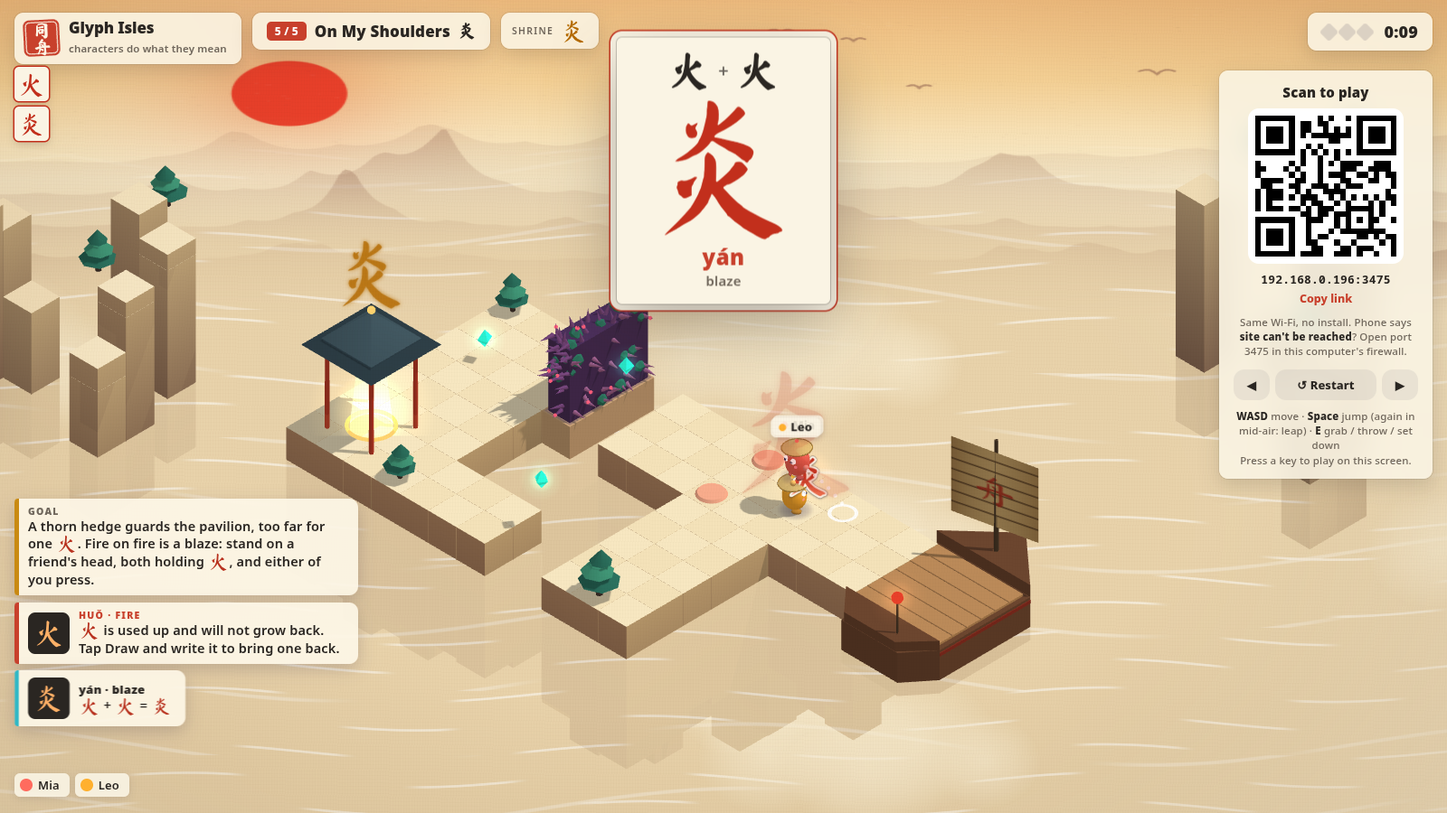
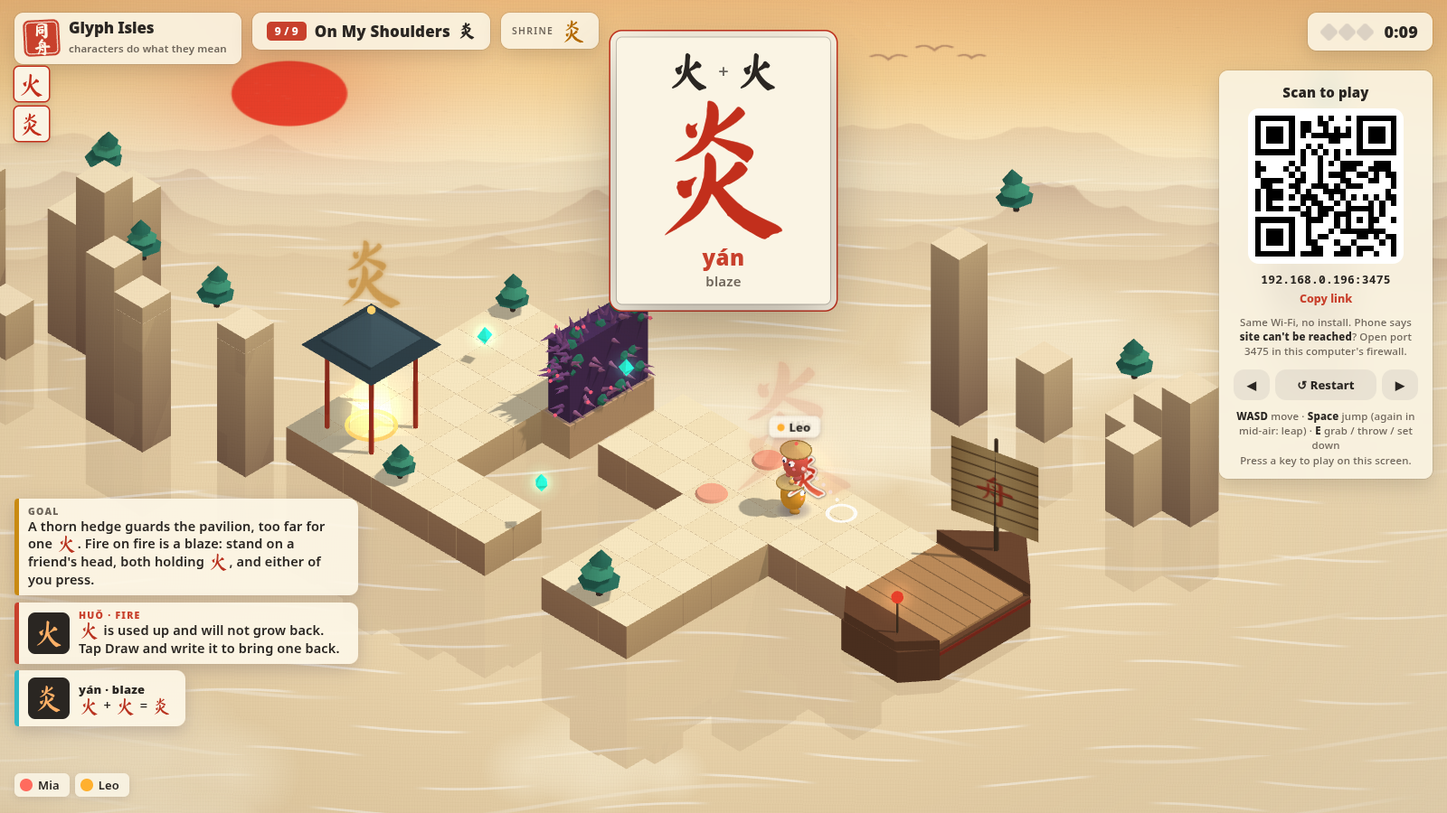
Forge: light dispels shade, earth fills gaps (LV.WALLS / LV.FILLS); stages old-leaf, early-light, fruit-field, red-earth; board checks t08/t09

diff --git a/games/tongzhou-forge/content.js b/games/tongzhou-forge/content.js
@@ -1,6 +1,6 @@
 // GENERATED by tools/pack.mjs from content/*.json. Do not edit by hand.
 (function (root) {
-  const data = {"glyphs":{"木":{"py":"mù","en":"tree","el":"wood","span":3},"林":{"py":"lín","en":"grove","el":"wood","span":5},"森":{"py":"sēn","en":"forest","el":"wood","span":7},"火":{"py":"huǒ","en":"fire","el":"fire","reach":1.3},"炎":{"py":"yán","en":"blaze","el":"fire","reach":2.6},"焚":{"py":"fén","en":"burn","el":"fire","reach":2.6},"水":{"py":"shuǐ","en":"water","el":"water","reach":1.3},"沐":{"py":"mù","en":"bathe","el":"water","reach":1.3},"淋":{"py":"lín","en":"drench","el":"water","reach":2.6},"日":{"py":"rì","en":"sun","el":"light"},"月":{"py":"yuè","en":"moon","el":"light"},"明":{"py":"míng","en":"bright","el":"light"},"昌":{"py":"chāng","en":"flourishing","el":"light"},"朋":{"py":"péng","en":"friend","el":"light"},"人":{"py":"rén","en":"person","el":"folk"},"从":{"py":"cóng","en":"follow","el":"folk"},"众":{"py":"zhòng","en":"crowd","el":"folk"},"休":{"py":"xiū","en":"rest","el":"folk"},"伙":{"py":"huǒ","en":"partner","el":"folk"},"女":{"py":"nǚ","en":"woman","el":"folk"},"子":{"py":"zǐ","en":"child","el":"folk"},"好":{"py":"hǎo","en":"good","el":"light"},"杲":{"py":"gǎo","en":"bright","el":"light"},"杳":{"py":"yǎo","en":"dim","el":"dusk"},"口":{"py":"kǒu","en":"mouth","el":"folk"},"十":{"py":"shí","en":"ten","el":"folk"},"田":{"py":"tián","en":"field","el":"folk"},"土":{"py":"tǔ","en":"earth","el":"folk"},"呆":{"py":"dāi","en":"dull","el":"folk"},"杏":{"py":"xìng","en":"apricot","el":"wood","span":3},"果":{"py":"guǒ","en":"fruit","el":"wood","span":3},"叶":{"py":"yè","en":"leaf","el":"wood","span":3},"古":{"py":"gǔ","en":"old","el":"folk"},"早":{"py":"zǎo","en":"early","el":"light"},"赤":{"py":"chì","en":"red","el":"fire","reach":1.3},"灶":{"py":"zào","en":"stove","el":"fire","reach":1.3}},"recipes":[["⿰","木","木","林"],["⿱","木","林","森"],["⿰","日","月","明"],["⿰","人","木","休"],["⿱","火","火","炎"],["⿱","林","火","焚"],["⿰","水","木","沐"],["⿰","水","林","淋"],["⿰","人","人","从"],["⿱","人","从","众"],["⿰","人","火","伙"],["⿱","日","日","昌"],["⿰","月","月","朋"],["⿰","女","子","好"],["⿱","日","木","杲"],["⿱","木","日","杳"],["⿱","口","木","呆"],["⿱","木","口","杏"],["⿱","田","木","果"],["⿰","口","十","叶"],["⿱","十","口","古"],["⿱","日","十","早"],["⿱","土","火","赤"],["⿰","火","土","灶"]],"forms":{"水":{"⿰1":"氵"},"心":{"⿰1":"忄"},"人":{"⿰1":"亻"}},"stages":[{"id":"two-trees","name":"Two Trees","cn":"双木成林","par":45,"pal":"dawn","want":"林","hint":"Mist has closed the river. Bring the pavilion its character. 木 thrown into the gap grows a bridge. Or find your own way: row the boat, boost a friend.","map":["22............","1111...1111111","1111...1111111","1111...1111111","...........11."],"spawn":[12.5,2.5],"beacon":[1.5,2.5],"boat":{"rect":[14,1,3,3],"from":[0,11],"to":[0,-15]},"stones":[["木",9.5,1.5],["木",9.5,3.5]],"gems":[[5.5,2.5,2.4],[12.5,4.5],[0.5,0.5]],"trees":[[1.5,0.5],[13.5,1.5]],"conjure":["木"]},{"id":"sun-and-moon","name":"Sun and Moon","cn":"日月同明","par":80,"pal":"night","want":"明","dawn":"citrus","hint":"It is dark. Find 日 and 月. Thorns fear 火, a gap wants 木. There is always more than one way.","map":["..............222","111...111.1111111","111...111.1111111","111...111.1111111","..............11."],"spawn":[15.5,2.5],"beacon":[1.5,2.5],"boat":{"rect":[17,1,3,3],"from":[0,11],"to":[0,-15]},"movers":[{"id":"hedge","kind":"thorn","rect":[9,1,1,3],"from":3.6,"to":1,"speed":2.4}],"stones":[["火",12.5,1.5],["木",12.5,3.5],["日",15.5,0.5],["月",6.5,1.5]],"gems":[[14.5,0.5],[4.5,2.5,2.4],[7.5,3.5]],"trees":[[0.5,1.5],[15.5,4.5]],"conjure":["火","木","日","月"]},{"id":"rest","name":"Lean on a Tree","cn":"人木为休","par":100,"pal":"mint","want":"休","hint":"Only 水 gets past the flames. 人 leaning on 木 makes 休. Carry it up the steps, or ride the lift while a friend holds the plate.","map":["4444444.......","4444444.......","4444..3.......","4444..2.......","..11111111.111","..11111111.111","..11111111.111"],"spawn":[8.5,6.5],"beacon":[1.5,2.5],"boat":{"rect":[6,7,4,2],"from":[11,0],"to":[-15,0]},"plates":[{"id":"L","at":[8,5],"c":2}],"movers":[{"id":"lift","rect":[4,2,2,2],"from":1,"to":4,"when":["L"],"c":2,"speed":1.6},{"id":"flames","kind":"flame","rect":[10,4,1,3],"from":3.6,"to":1,"speed":2.4}],"crates":[[6.5,5.5]],"stones":[["水",3.5,5.5],["木",3.5,6.5],["人",12.5,5.5]],"gems":[[6.5,2.5],[12.5,4.5],[5.5,0.5]],"trees":[[0.5,0.5],[2.5,0.5],[13.5,6.5]],"conjure":["木","人","水"]},{"id":"dawn","name":"Dawn","cn":"杲","par":60,"pal":"dusk","dawn":"dawn","want":"杲","hint":"Mist has closed the river. The pavilion waits for sunrise: the sun above the trees. Stand in front of a stone to set yours on top of it.","map":["22............","1111...1111111","1111...1111111","1111...1111111","...........11."],"spawn":[12.5,2.5],"beacon":[1.5,2.5],"boat":{"rect":[14,1,3,3],"from":[0,11],"to":[0,-15]},"stones":[["日",10.5,1.5],["木",9.5,3.5]],"gems":[[5.5,2.5,2.4],[12.5,4.5],[0.5,0.5]],"glow":[[8.5,1.5]],"trees":[[1.5,0.5],[13.5,1.5]],"regrow":true},{"id":"on-my-shoulders","name":"On My Shoulders","cn":"炎","par":70,"pal":"citrus","want":"炎","hint":"A thorn hedge guards the pavilion, too far for one 火. Fire on fire is a blaze: stand on a friend's head, both holding 火, and either of you press.","map":["...............","1111..111111111","1111..111111111","1111..111111111","1111.....111...","1111.....111...","1111.....111...","1111111..111...","1111111..111...","..............."],"spawn":[12.5,2.5],"beacon":[1.5,7.5],"boat":{"rect":[15,1,3,3],"from":[0,11],"to":[0,-15]},"movers":[{"id":"hedge","kind":"thorn","rect":[4,1,1,3],"from":3.6,"to":1,"speed":2.4}],"stones":[["火",9.5,1.5],["火",9.5,3.5]],"gems":[[5.5,2.5,2.4],[7.5,7.5,2.4],[1.5,3.5]],"trees":[[0.5,1.5],[10.5,8.5],[3.5,8.5]]}]};
+  const data = {"glyphs":{"木":{"py":"mù","en":"tree","el":"wood","span":3},"林":{"py":"lín","en":"grove","el":"wood","span":5},"森":{"py":"sēn","en":"forest","el":"wood","span":7},"火":{"py":"huǒ","en":"fire","el":"fire","reach":1.3},"炎":{"py":"yán","en":"blaze","el":"fire","reach":2.6},"焚":{"py":"fén","en":"burn","el":"fire","reach":2.6},"水":{"py":"shuǐ","en":"water","el":"water","reach":1.3},"沐":{"py":"mù","en":"bathe","el":"water","reach":1.3},"淋":{"py":"lín","en":"drench","el":"water","reach":2.6},"日":{"py":"rì","en":"sun","el":"light"},"月":{"py":"yuè","en":"moon","el":"light"},"明":{"py":"míng","en":"bright","el":"light","reach":2.6},"昌":{"py":"chāng","en":"flourishing","el":"light","reach":2.6},"朋":{"py":"péng","en":"friend","el":"light"},"人":{"py":"rén","en":"person","el":"folk"},"从":{"py":"cóng","en":"follow","el":"folk"},"众":{"py":"zhòng","en":"crowd","el":"folk"},"休":{"py":"xiū","en":"rest","el":"folk"},"伙":{"py":"huǒ","en":"partner","el":"folk"},"女":{"py":"nǚ","en":"woman","el":"folk"},"子":{"py":"zǐ","en":"child","el":"folk"},"好":{"py":"hǎo","en":"good","el":"light"},"杲":{"py":"gǎo","en":"bright","el":"light","reach":2.6},"杳":{"py":"yǎo","en":"dim","el":"dusk"},"口":{"py":"kǒu","en":"mouth","el":"folk"},"十":{"py":"shí","en":"ten","el":"folk"},"田":{"py":"tián","en":"field","el":"earth","span":3},"土":{"py":"tǔ","en":"earth","el":"earth","span":2},"呆":{"py":"dāi","en":"dull","el":"folk"},"杏":{"py":"xìng","en":"apricot","el":"wood","span":3},"果":{"py":"guǒ","en":"fruit","el":"wood","span":3},"叶":{"py":"yè","en":"leaf","el":"wood","span":3},"古":{"py":"gǔ","en":"old","el":"folk"},"早":{"py":"zǎo","en":"early","el":"light"},"赤":{"py":"chì","en":"red","el":"fire","reach":1.3},"灶":{"py":"zào","en":"stove","el":"fire","reach":1.3}},"recipes":[["⿰","木","木","林"],["⿱","木","林","森"],["⿰","日","月","明"],["⿰","人","木","休"],["⿱","火","火","炎"],["⿱","林","火","焚"],["⿰","水","木","沐"],["⿰","水","林","淋"],["⿰","人","人","从"],["⿱","人","从","众"],["⿰","人","火","伙"],["⿱","日","日","昌"],["⿰","月","月","朋"],["⿰","女","子","好"],["⿱","日","木","杲"],["⿱","木","日","杳"],["⿱","口","木","呆"],["⿱","木","口","杏"],["⿱","田","木","果"],["⿰","口","十","叶"],["⿱","十","口","古"],["⿱","日","十","早"],["⿱","土","火","赤"],["⿰","火","土","灶"]],"forms":{"水":{"⿰1":"氵"},"心":{"⿰1":"忄"},"人":{"⿰1":"亻"}},"stages":[{"id":"two-trees","name":"Two Trees","cn":"双木成林","par":45,"pal":"dawn","want":"林","hint":"Mist has closed the river. Bring the pavilion its character. 木 thrown into the gap grows a bridge. Or find your own way: row the boat, boost a friend.","map":["22............","1111...1111111","1111...1111111","1111...1111111","...........11."],"spawn":[12.5,2.5],"beacon":[1.5,2.5],"boat":{"rect":[14,1,3,3],"from":[0,11],"to":[0,-15]},"stones":[["木",9.5,1.5],["木",9.5,3.5]],"gems":[[5.5,2.5,2.4],[12.5,4.5],[0.5,0.5]],"trees":[[1.5,0.5],[13.5,1.5]],"conjure":["木"]},{"id":"sun-and-moon","name":"Sun and Moon","cn":"日月同明","par":80,"pal":"night","want":"明","dawn":"citrus","hint":"It is dark. Find 日 and 月. Thorns fear 火, a gap wants 木. There is always more than one way.","map":["..............222","111...111.1111111","111...111.1111111","111...111.1111111","..............11."],"spawn":[15.5,2.5],"beacon":[1.5,2.5],"boat":{"rect":[17,1,3,3],"from":[0,11],"to":[0,-15]},"movers":[{"id":"hedge","kind":"thorn","rect":[9,1,1,3],"from":3.6,"to":1,"speed":2.4}],"stones":[["火",12.5,1.5],["木",12.5,3.5],["日",15.5,0.5],["月",6.5,1.5]],"gems":[[14.5,0.5],[4.5,2.5,2.4],[7.5,3.5]],"trees":[[0.5,1.5],[15.5,4.5]],"conjure":["火","木","日","月"]},{"id":"rest","name":"Lean on a Tree","cn":"人木为休","par":100,"pal":"mint","want":"休","hint":"Only 水 gets past the flames. 人 leaning on 木 makes 休. Carry it up the steps, or ride the lift while a friend holds the plate.","map":["4444444.......","4444444.......","4444..3.......","4444..2.......","..11111111.111","..11111111.111","..11111111.111"],"spawn":[8.5,6.5],"beacon":[1.5,2.5],"boat":{"rect":[6,7,4,2],"from":[11,0],"to":[-15,0]},"plates":[{"id":"L","at":[8,5],"c":2}],"movers":[{"id":"lift","rect":[4,2,2,2],"from":1,"to":4,"when":["L"],"c":2,"speed":1.6},{"id":"flames","kind":"flame","rect":[10,4,1,3],"from":3.6,"to":1,"speed":2.4}],"crates":[[6.5,5.5]],"stones":[["水",3.5,5.5],["木",3.5,6.5],["人",12.5,5.5]],"gems":[[6.5,2.5],[12.5,4.5],[5.5,0.5]],"trees":[[0.5,0.5],[2.5,0.5],[13.5,6.5]],"conjure":["木","人","水"]},{"id":"dawn","name":"Dawn","cn":"杲","par":60,"pal":"dusk","dawn":"dawn","want":"杲","hint":"Mist has closed the river. The pavilion waits for sunrise: the sun above the trees. Stand in front of a stone to set yours on top of it.","map":["22............","1111...1111111","1111...1111111","1111...1111111","...........11."],"spawn":[12.5,2.5],"beacon":[1.5,2.5],"boat":{"rect":[14,1,3,3],"from":[0,11],"to":[0,-15]},"stones":[["日",10.5,1.5],["木",9.5,3.5]],"gems":[[5.5,2.5,2.4],[12.5,4.5],[0.5,0.5]],"glow":[[8.5,1.5]],"trees":[[1.5,0.5],[13.5,1.5]],"regrow":true},{"id":"old-leaf","name":"Old Leaf","cn":"古","par":70,"pal":"citrus","want":"古","hint":"The old pavilion wants 古: ten resting above a mouth. Stand in front of 口 to set 十 on top. A leaf (叶) lies flat across water.","map":["..111.........",".1111...111111",".1111...111111",".1111...111111","........111..."],"spawn":[12.5,2.5],"beacon":[2.5,2.5],"boat":{"rect":[14,1,3,3],"from":[0,11],"to":[0,-15]},"stones":[["十",10.5,1.5],["口",9.5,3.5]],"gems":[[6.5,2.5,2.4],[9.5,4.5],[3.5,0.5]],"trees":[[1.5,1.5],[13.5,3.5]],"regrow":true},{"id":"early-light","name":"Early Light","cn":"早","par":80,"pal":"night","dawn":"citrus","want":"早","hint":"A wall of shade blocks the way, and shade fears any light. The pavilion wants 早, early: the sun 日 rising over a cross 十. Set 日 on top.","map":["...............","111.11111111111","111.11111111111","111.11111111111","111......1111..","111......1111..","111......1111..","11111..11111...","11111..11111...","..............."],"spawn":[12.5,2.5],"beacon":[1.5,6.5],"boat":{"rect":[15,1,3,3],"from":[0,11],"to":[0,-15]},"movers":[{"id":"veil","kind":"shade","rect":[3,1,1,3],"from":3.6,"to":1,"speed":2.4}],"stones":[["日",10.5,1.5],["十",9.5,3.5]],"gems":[[3.5,5.5,2.4],[6,7.5,2.4],[13.5,1.5]],"trees":[[0.5,1.5],[11.5,8.5],[4.5,8.5]],"regrow":true},{"id":"fruit-field","name":"Fruit Field","cn":"果","par":80,"pal":"mint","want":"果","hint":"Fruit 果 is a field 田 on a tree 木: set 田 on top. Thrown into water, 田 comes up as a field and 木 grows a bridge.","map":["..11111.....","..11111.....","..11111.....","............","............","............","....11111111","....11111111","....11111111"],"spawn":[10.5,7.5],"beacon":[3.5,0.5],"boat":{"rect":[12,6,3,3],"from":[0,11],"to":[0,-15]},"stones":[["田",8.5,6.5],["木",6.5,8.5]],"gems":[[5.5,4.5,2.4],[11.5,6.5],[6.5,1.5]],"trees":[[2.5,2.5],[4.5,8.5]],"regrow":true},{"id":"red-earth","name":"Red Earth","cn":"赤","par":90,"pal":"dawn","want":"赤","hint":"Red 赤 is earth 土 over fire 火: set 土 on top. 火 beside 土 makes a stove instead. Thorns fear fire; 土 thrown in the water raises a mound.","map":["..............","111..11.111111","111..11.111111","111..11.111111","..........11..",".............."],"spawn":[12.5,2.5],"beacon":[1.5,2.5],"boat":{"rect":[14,1,3,3],"from":[0,11],"to":[0,-15]},"movers":[{"id":"hedge","kind":"thorn","rect":[7,1,1,3],"from":3.6,"to":1,"speed":2.4}],"stones":[["土",10.5,1.5],["火",10.5,3.5]],"gems":[[3.5,2.5,2.4],[5.5,1.5],[10.5,4.5]],"trees":[[0.5,3.5],[13.5,3.5]],"regrow":true},{"id":"on-my-shoulders","name":"On My Shoulders","cn":"炎","par":70,"pal":"citrus","want":"炎","hint":"A thorn hedge guards the pavilion, too far for one 火. Fire on fire is a blaze: stand on a friend's head, both holding 火, and either of you press.","map":["...............","1111..111111111","1111..111111111","1111..111111111","1111.....111...","1111.....111...","1111.....111...","1111111..111...","1111111..111...","..............."],"spawn":[12.5,2.5],"beacon":[1.5,7.5],"boat":{"rect":[15,1,3,3],"from":[0,11],"to":[0,-15]},"movers":[{"id":"hedge","kind":"thorn","rect":[4,1,1,3],"from":3.6,"to":1,"speed":2.4}],"stones":[["火",9.5,1.5],["火",9.5,3.5]],"gems":[[5.5,2.5,2.4],[7.5,7.5,2.4],[1.5,3.5]],"trees":[[0.5,1.5],[10.5,8.5],[3.5,8.5]]}]};
   if (typeof module !== 'undefined' && module.exports) module.exports = data;
   else root.WContent = data;
 })(typeof window !== 'undefined' ? window : globalThis);

diff --git a/games/tongzhou-forge/app.js b/games/tongzhou-forge/app.js
@@ -47,7 +47,8 @@
     water: { a: '#5aa3e0', b: '#1b5aa6', glow: '#a8e0ff' },
     light: { a: '#f2c14e', b: '#b06f06', glow: '#fff2b0' },
     folk: { a: '#8f7bb0', b: '#3a2c52', glow: '#e6d0ff' },
-    dusk: { a: '#5b4a8a', b: '#2a1f4a', glow: '#b9a6ff' }
+    dusk: { a: '#5b4a8a', b: '#2a1f4a', glow: '#b9a6ff' },
+    earth: { a: '#c08a4e', b: '#7a4a22', glow: '#ffd29a' }
   };
   // ---------- the positional forge (ROADMAP F3.2) ----------
   // Labels name the placement, never the result (P9).
@@ -411,7 +412,7 @@
         g.position.set(mx + mw / 2, m.to, mz + md / 2);
         const body = shade(new THREE.Mesh(new THREE.BoxGeometry(mw - 0.02, 9, md - 0.02), lam(pal._a.clone().lerp(pal._b, 0.5))));
         body.position.y = -4.5;
-        const scorch = new THREE.Mesh(new THREE.PlaneGeometry(mw - 0.1, md - 0.1), new THREE.MeshBasicMaterial({ color: m.kind === 'thorn' ? '#5d4a66' : '#6a7fa0', transparent: true, opacity: 0.35 }));
+        const scorch = new THREE.Mesh(new THREE.PlaneGeometry(mw - 0.1, md - 0.1), new THREE.MeshBasicMaterial({ color: m.kind === 'thorn' ? '#5d4a66' : m.kind === 'shade' ? '#3a3350' : '#6a7fa0', transparent: true, opacity: 0.35 }));
         scorch.rotation.x = -Math.PI / 2; scorch.position.y = 0.008;
         const deco = new THREE.Group();
         const flames = [];
@@ -440,6 +441,21 @@
             }
             if (k % 7 === 0) { const br = new THREE.Mesh(new THREE.SphereGeometry(0.05, 8, 6), berry); br.position.copy(sp.position).addScaledVector(dir, 0.1); deco.add(br); }
           }
+        } else if (m.kind === 'shade') {
+          // shade: a wall of ink cloud that light breaks up
+          const ink = new THREE.MeshLambertMaterial({ color: '#2a2440', transparent: true, opacity: 0.86, flatShading: true });
+          const ink2 = new THREE.MeshLambertMaterial({ color: '#433a66', transparent: true, opacity: 0.7, flatShading: true });
+          const n = Math.round(10 * mw * md + 6);
+          for (let k = 0; k < n; k++) {
+            const r = 0.32 + rnd(k, 1) * 0.3;
+            const puffM = new THREE.Mesh(new THREE.IcosahedronGeometry(r, 1), k % 3 ? ink : ink2);
+            puffM.position.set((rnd(k, 3) - 0.5) * (mw - 0.35), r + rnd(k, 2) * (H - r * 1.6), (rnd(k, 4) - 0.5) * (md - 0.35));
+            deco.add(puffM);
+            flames.push({ m: puffM, h: 0, seed: rnd(k, 5) * 9, cloud: true, y0: puffM.position.y });
+          }
+          const gl = sprite(TEX.glow, '#6a5aa0', 0.35, false);
+          gl.scale.set(Math.max(mw, md) * 2.4, H * 2.4, 1); gl.position.y = H * 0.5;
+          deco.add(gl);
         } else {
           const cols = ['#ff5a2a', '#ff8a2e', '#ffc94a', '#fff0a0'];
           const n = Math.round(9 * mw * md);
@@ -1041,6 +1057,7 @@
 
   // a log bridge that grew out of a 木 stone
   function makeBridge(b) {
+    if (glyph(b[5]).el === 'earth') return makeMound(b);
     const x0 = b[0], z0 = b[1], w = b[2], d = b[3];
     const g = new THREE.Group();
     g.position.set(x0 + w / 2, b[4], z0 + d / 2);
@@ -1068,6 +1085,40 @@
       const lf = shade(new THREE.Mesh(new THREE.IcosahedronGeometry(0.17 + hash(k, z0, 42) * 0.1, 1), k % 3 ? leafA : leafB));
       lf.position.set(alongX ? o : side, 0.12, alongX ? side : o);
       g.add(lf);
+    }
+    S.root.add(g);
+    return { g, y: b[4] };
+  }
+  // a mound of earth that rose out of the water where 土 or 田 fell in; 田 comes up ploughed
+  function makeMound(b) {
+    const x0 = b[0], z0 = b[1], w = b[2], d = b[3];
+    const g = new THREE.Group();
+    g.position.set(x0 + w / 2, b[4], z0 + d / 2);
+    const body = shade(new THREE.Mesh(new THREE.BoxGeometry(w - 0.04, 3.2, d - 0.04), lam('#a8743e', { flatShading: true })));
+    body.position.y = -1.6;
+    const top = shade(new THREE.Mesh(new THREE.BoxGeometry(w - 0.02, 0.08, d - 0.02), lam(b[5] === '田' ? '#8a5a2e' : '#c99a5c')));
+    top.position.y = -0.04;
+    g.add(body, top);
+    if (b[5] === '田') {
+      // furrows and green shoots: a field
+      const alongX = w >= d, len = alongX ? w : d, shoot = lam(S.pal.leaf, { flatShading: true });
+      for (const s of [-0.25, 0, 0.25]) {
+        const row = new THREE.Mesh(new THREE.BoxGeometry(alongX ? len - 0.2 : 0.07, 0.05, alongX ? 0.07 : len - 0.2), lam('#5e3a1c'));
+        row.position.set(alongX ? 0 : s, 0.02, alongX ? s : 0);
+        g.add(row);
+        for (let k = 0; k < len * 3; k++) {
+          const sh = shade(new THREE.Mesh(new THREE.ConeGeometry(0.05, 0.22, 4), shoot), true, false);
+          const o = -len / 2 + 0.2 + k * (len - 0.4) / Math.max(1, len * 3 - 1);
+          sh.position.set(alongX ? o : s + 0.08, 0.11, alongX ? s + 0.08 : o);
+          g.add(sh);
+        }
+      }
+    } else {
+      for (let k = 0; k < 5; k++) {
+        const pb = shade(new THREE.Mesh(new THREE.DodecahedronGeometry(0.07 + hash(k, x0, 44) * 0.06, 0), lam('#8b6a4a', { flatShading: true })), true, false);
+        pb.position.set((hash(k, z0, 45) - 0.5) * (w - 0.3), 0.04, (hash(k, x0, 46) - 0.5) * (d - 0.3));
+        g.add(pb);
+      }
     }
     S.root.add(g);
     return { g, y: b[4] };
@@ -1143,6 +1194,7 @@
     bonk: () => tone(190, 0.1, 'square', 0.04, 120),
     pop: () => tone(300, 0.12, 'sine', 0.09, 620),
     win: () => [523, 659, 784, 1047, 1319].forEach((f, k) => tone(f, 0.28, 'triangle', 0.1, null, k * 0.11)),
+    dawn: () => [392, 523, 659, 784].forEach((f, k) => tone(f, 0.35, 'sine', 0.07, null, k * 0.06)),
     dusk: () => { tone(330, 0.9, 'sine', 0.07, 196); tone(247, 1.1, 'triangle', 0.05, 147, 0.2); },
     fuse: () => { tone(392, 0.5, 'sine', 0.09); tone(587, 0.5, 'sine', 0.08, null, 0.06); tone(880, 0.7, 'triangle', 0.08, null, 0.14); },
     grow: () => [262, 330, 392, 523].forEach((f, k) => tone(f, 0.22, 'triangle', 0.08, f * 1.5, k * 0.07)),
@@ -1405,28 +1457,31 @@
         break;
       }
       case 'bridge': {
-        const leaf = S ? S.pal.leaf : '#62cdb0';
+        const leaf = glyph(e.ch).el === 'earth' ? '#a8743e' : S ? S.pal.leaf : '#62cdb0';
         burst(e.x, e.y + 0.3, e.z, 44, leaf, 4.5, false);
         burst(e.x, e.y + 0.3, e.z, 18, '#8dffd0', 3, true);
         glyphBurst(e.ch, e.x, e.y + 1.4, e.z, '#8dffd0');
-        note('char', 'grows a bridge across the gap', { ch: e.ch });
+        note('char', glyph(e.ch).el === 'earth' ? 'raises a mound of earth in the water' : 'grows a bridge across the gap', { ch: e.ch });
         sfx.grow();
         if (isBoard || e.by === myId) speak(e.ch);
         break;
       }
-      case 'burn': case 'douse': {
+      case 'burn': case 'douse': case 'dispel': {
+        const lite = e.t === 'dispel';
         const mv = S && S.movers.find((m, j) => m.wall && (S.L.movers[j] || {}).id === e.id);
         if (mv) {
           const w = mv.wall, fire = e.t === 'burn';
           for (let k = 0; k < 60; k++) {
             const x = w.x + (Math.random() - 0.5) * w.w, z = w.z + (Math.random() - 0.5) * w.d, y = w.to + Math.random() * (w.from - w.to);
-            if (fire) puff(x, y, z, { tex: TEX.glow, color: k % 2 ? '#ff8a2e' : '#ffd36e', add: true, life: 0.7 + Math.random() * 0.9, vx: (Math.random() - 0.5) * 1.5, vy: 1.5 + Math.random() * 3, vz: (Math.random() - 0.5) * 1.5, s0: 0.3, s1: 0.03 });
+            if (lite) puff(x, y, z, { tex: k % 3 ? TEX.cloud : TEX.glow, color: k % 3 ? '#4a4070' : '#fff2b0', add: !(k % 3), life: 0.8 + Math.random() * 0.9, vx: (x - w.x) * 2.2, vy: 0.6 + Math.random() * 1.5, vz: (z - w.z) * 2.2, s0: 0.6, s1: 1.8, a: 0.75 });
+            else if (fire) puff(x, y, z, { tex: TEX.glow, color: k % 2 ? '#ff8a2e' : '#ffd36e', add: true, life: 0.7 + Math.random() * 0.9, vx: (Math.random() - 0.5) * 1.5, vy: 1.5 + Math.random() * 3, vz: (Math.random() - 0.5) * 1.5, s0: 0.3, s1: 0.03 });
             else puff(x, y, z, { tex: TEX.cloud, color: '#ffffff', life: 0.9 + Math.random() * 0.9, vx: (Math.random() - 0.5) * 1.2, vy: 1 + Math.random() * 2, vz: (Math.random() - 0.5) * 1.2, s0: 0.5, s1: 1.6, a: 0.7 });
           }
-          glyphBurst(e.ch, w.x, w.from + 0.6, w.z, fire ? '#ffb066' : '#a8e0ff');
+          glyphBurst(e.ch, w.x, w.from + 0.6, w.z, fire ? '#ffb066' : lite ? '#fff2b0' : '#a8e0ff');
+          if (lite) burst(w.x, w.to + 1.2, w.z, 40, '#fff2b0', 4.5, true);
         }
-        note('char', e.t === 'burn' ? 'burns the thorns away' : 'puts the flames out', { ch: e.ch });
-        (e.t === 'burn' ? sfx.burn : sfx.douse)();
+        note('char', e.t === 'burn' ? 'burns the thorns away' : lite ? 'lights up the shade, and it is gone' : 'puts the flames out', { ch: e.ch });
+        (e.t === 'burn' ? sfx.burn : lite ? sfx.dawn : sfx.douse)();
         if (isBoard || e.by === myId) speak(e.ch);
         break;
       }
@@ -1742,6 +1797,14 @@
         w.deco.visible = f > 0.02;
         w.deco.scale.set(0.6 + f * 0.4, Math.max(0.01, f), 0.6 + f * 0.4);
         for (const fl of w.flames) {
+          if (fl.cloud) {
+            // shade churns slowly
+            const b = 1 + Math.sin(t * 1.7 + fl.seed) * 0.08;
+            fl.m.scale.setScalar(b);
+            fl.m.position.y = fl.y0 + Math.sin(t * 1.1 + fl.seed) * 0.08;
+            fl.m.rotation.y = t * 0.3 + fl.seed;
+            continue;
+          }
           const a = 0.8 + Math.sin(t * 9 + fl.seed) * 0.16 + Math.sin(t * 15.3 + fl.seed * 2) * 0.1;
           fl.m.scale.set(1.05 - (a - 0.8) * 0.5, a, 1.05 - (a - 0.8) * 0.5);
           fl.m.position.y = fl.h * a / 2;

diff --git a/games/tongzhou-forge/sim.js b/games/tongzhou-forge/sim.js
@@ -970,7 +970,7 @@ class Game {
     if (!k.grounded) {
       k.flight += dt;
       // 木 does what it means: dropped into a gap, it grows across it
-      if (k.g.el === 'wood' && k.vy < 0 && this.phase === 'play') {
+      if (LV.FILLS.includes(k.g.el) && k.vy < 0 && this.phase === 'play') {
         const run = this.gapRun(Math.floor(k.x), Math.floor(k.z), k.g.span);
         if (run && k.y < run.h - 0.45) { this.growBridge(k, run); return; }
       }
@@ -1187,14 +1187,14 @@ class Game {
   stepWalls() {
     for (const m of this.movers) {
       if (!m.wall || m.done) continue;
-      const need = m.wall === 'thorn' ? 'fire' : 'water';
+      const W = LV.WALLS[m.wall], need = W.el;
       for (const k of this.stones) {
         if (k.state === 'gone' || k.g.el !== need) continue;
         const dx = k.x - clamp(k.x, m.x0, m.x1), dz = k.z - clamp(k.z, m.z0, m.z1);
         const feet = k.holder ? k.holder.y : k.y;
-        if (Math.hypot(dx, dz) < k.g.reach && Math.abs(feet - m.to) < 2.5) {
+        if (Math.hypot(dx, dz) < LV.reachOf(k.g) && Math.abs(feet - m.to) < 2.5) {
           m.done = true;
-          this.ev(m.wall === 'thorn' ? 'burn' : 'douse', { id: m.id, ch: k.ch, by: k.holder ? k.holder.id : null });
+          this.ev(W.verb, { id: m.id, ch: k.ch, by: k.holder ? k.holder.id : null });
           break;
         }
       }

diff --git a/games/tongzhou-forge/levels.js b/games/tongzhou-forge/levels.js
@@ -85,7 +85,18 @@
     return c.low + t;
   }
 
-  const api = { LEVELS, GLYPHS, OPS, RECIPES, RECIPE_LIST, fuse, mirrors, form, parse, cellTop };
+  // Walls that stand until the right kind of stone comes near (carried or lying there), and what
+  // that is called: 火 burns thorns, 水 douses flames, a light stone dispels shade.
+  const WALLS = {
+    thorn: { el: 'fire', verb: 'burn', name: 'thorns' },
+    flame: { el: 'water', verb: 'douse', name: 'flames' },
+    shade: { el: 'light', verb: 'dispel', name: 'shade' }
+  };
+  // Stones that fill a gap they fall into: wood grows a bridge, earth raises a mound.
+  const FILLS = ['wood', 'earth'];
+  const reachOf = g => (g && g.reach) || 1.3;
+
+  const api = { LEVELS, GLYPHS, OPS, RECIPES, RECIPE_LIST, WALLS, FILLS, reachOf, fuse, mirrors, form, parse, cellTop };
   if (typeof module !== 'undefined' && module.exports) module.exports = api;
   else root.WLevels = api;
 })(typeof window !== 'undefined' ? window : globalThis);

diff --git a/games/tongzhou-forge/docs/forge/ROADMAP.md b/games/tongzhou-forge/docs/forge/ROADMAP.md
@@ -16,7 +16,7 @@ Last updated: **2026-11-18**.
 | 3 | Minimal playable `dawn` + client + playtest log → **G1** | **Built**: F3.1, F3.2 (`tasks/04`), F3.3 and the log reader (`tasks/05`) done. **G1 (F3.4) needs people** |
 | 4 | Body forging → **G2** | **Built**: F4.1–F4.4 done (`on-my-shoulders` is stage 5). **G2 (F4.5) needs people** |
 | 5 | Judge and lint: op closure, placement and body actions, `order-trap`, `--sloppy` | Not started |
-| 6 | Content: glyphs, elements, font, 4 to 6 stages → G3 | Character batch 1 (`tasks/06`) done; candidate `old-leaf` (`tasks/07`) |
+| 6 | Content: glyphs, elements, font, 4 to 6 stages → G3 | **In progress**: batch 1 done; light dispels shade, earth fills gaps; 9 stages in order (old-leaf, early-light, fruit-field, red-earth, on-my-shoulders added). G3 needs people |
 | 7 | Pyramid and enclosure | Not started |
 | 8 | Retrospective | Not started |
 
@@ -86,6 +86,7 @@ font re-subset, stages 5, 7 and 9 → G3. 7: pyramid and frames. 8: `RETROSPECTI
 | 2026-11-18 | **Task 06 done.** Character batch 1: 口 十 田 土 + 呆 杏 果 叶 古 早 赤 灶; 8 recipes (minimal pairs 口/木 → 呆/杏, 十/口 → 古 vs 叶). MMAH 24/24; `content.js` and `strokes.json` regenerated; font check clean. `t06` DONE, all suites green. |
 | 2026-11-18 | **Task 07 done.** Candidate `content/candidates/old-leaf.json` (citrus): 十 and 口 on the east isle, the pavilion across a 3-cell gap; judge PASS with boost and row. `t07` DONE. |
 | 2026-11-18 | **Phase 4 built (F4.1–F4.4), at John's go-ahead to make the fork playable before G1.** Sim: a holder can be stood on; their stone moves to the arm hold (`fz.holdLow`, snapshot `low` 1); `formation(p)` = both holding and the held stones in a `relate(…,'body')` placement (any formation, valid or not: P9); `launch()` gives `forge` (beaten only by an offer at the pavilion); `forgeHeld()` runs through `tryForge` with `held: true`, the result goes to the presser, a dud keeps both stones; held stones in a formation carry `rel` in the snapshot. Client: FORGE label and aim colour, arm-hold pose, placement marks between held stones. Judge: new solver moves "stands left/right of" and "climbs onto … forges X in hand", with either bot pressing; `ground` and `body` are route mechanics (classified from `forge.held`), but forging in hand never counts as the **second way** (otherwise every isle would be two-way); a body route is reported as `also:`. Every shipped stage now shows a body route (sun-and-moon forges 明 in hand on the boat). Stage `on-my-shoulders` (炎): a hedge one 火 cannot reach from the shore but 炎 (reach 2.6) can; second way: boost over the south gap with 炎 in hand. Finding: the first draft failed because the pavilion and every boat path sat inside 炎's reach, so the hedge always burned; the pavilion moved south. Forge-test Body group (12 checks); `tasks/checks/t08.mjs` plays it on the real board (screenshots `G2-2026-11-18-formation.png`, `…-blaze.png`). All suites green. |
+| 2026-11-18 | **Effects for more characters (FG-D016), and four new isles.** `levels.js` now holds `WALLS` (thorn → fire/burn, flame → water/douse, **shade → light/dispel**), `FILLS` (wood, **earth**) and `reachOf()` (default 1.3); sim, lint, solver and client read them, so a new wall kind or fill element is one table row. Light stones dispel shade (明 杲 昌 reach 2.6); 土 (span 2) and 田 (span 3) are now `earth` and raise a mound / a ploughed field in a gap. Client: shade drawn as churning ink cloud that bursts into light; earth mounds; `dispel` sounds and notes. Stages: `old-leaf` promoted from candidates (the frozen `t07` now fails its "stays a candidate" item, by design), `early-light` (早; shade wall; dispel or boost), `fruit-field` (果; 田 or 木 fills the gap, or boost), `red-earth` (赤 vs 灶; thorns and a 2-cell gap; 土 mound or boost). All PASS with two ways plus a body route. Forge-test Elements group (6); `tasks/checks/t09.mjs` plays dispel and the field on the real board (screenshots `E-2026-11-18-dispel.png`, `E-2026-11-18-field.png`); it caught a client bug (`lite` out of scope) that no sim test could. |
 
 ## 4. Decision log
 
@@ -105,6 +106,7 @@ font re-subset, stages 5, 7 and 9 → G3. 7: pyramid and frames. 8: `RETROSPECTI
 | FG-D012 | 2026-11-18 | Forge stages default to `"regrow": true` until a split verb exists | Used-up stones make a wrong-but-real result a soft-lock otherwise |
 | FG-D013 | 2026-11-18 | `levels.js`, `tools/judge/*` and the `vendor/` font may change in this folder (unlike in conjure) | The forge changes the core rules on purpose |
 | FG-D014 | 2026-11-18 | Card order in Phase 2 is F2.7 → F2.8 → F2.6 (not 2.6 → 2.7 → 2.8) | Removing the sim's order-free bridge (F2.6) before joins land beside on the approach side (F2.7) and before the solver picks that side (F2.8) would leave suites red between cards; this order keeps every commit green |
+| FG-D016 | 2026-11-18 | After the middle point, the count of characters players can make **and use with an obvious effect** is the key measure. New effects reuse existing rules through `LV.WALLS` / `LV.FILLS` so the judge can play them | John, 2026-11-18 |
 | FG-D015 | 2026-11-18 | Rescue `unique` means: the exact arrangement is a dud and the two pieces have exactly one recipe in any op and order. "Wrong" means: not `want` and not a piece on any recipe path to it | The simplest readings of K5 and K7 that stay deterministic and need no per-stage data |
 
 ## 5. Commands

diff --git a/games/tongzhou-forge/docs/forge/CONTENT.md b/games/tongzhou-forge/docs/forge/CONTENT.md
@@ -63,6 +63,8 @@ Existing elements: **wood** (bridges), **fire** (burns thorns), **water** (douse
 | wood | 果 李 杏 集 | Fruit and bird stones are wood too: they bridge (short span) | 6 |
 | water | 江 | A long-reach douse; thrown into a gap, it becomes a stream you can't cross (an anti-bridge: wrong-but-real with teeth) | 6 |
 | fire | 赤 灶 | Fire with reach | 6 |
+| **light** (2026-11-18) | 日 月 明 昌 朋 好 杲 早 | **Dispels shade**: a new wall kind (`"kind": "shade"`, an ink cloud) clears when a light stone comes within its reach (1.3; 明 杲 昌 2.6), carried or lying. Mechanic `dispel` | built |
+| **earth** (new, 2026-11-18) | 土 (span 2), 田 (span 3) | Thrown into water, it raises a mound across a gap (田 comes up as a ploughed field). Same rule as wood's bridge (`LV.FILLS`), mechanic `bridge` | built |
 | **frame** (new) | 囗 门 | Hollow; things go inside. 门 thrown at a wall stands up as a gate you walk through | 7 |
 | **bind** (new) | 困 囚 | Thrown at a moving thing (a lift, the boat), it holds it still while the stone lasts | 7 |
 | **mind** (new) | 忘 忙 念 思 | 忙 (busy): the crew moves faster for a while. 忘 (forget): the isle forgets one closed wall or gate. 念 / 思: a ghost shows where a used-up stone was | 6+ |
